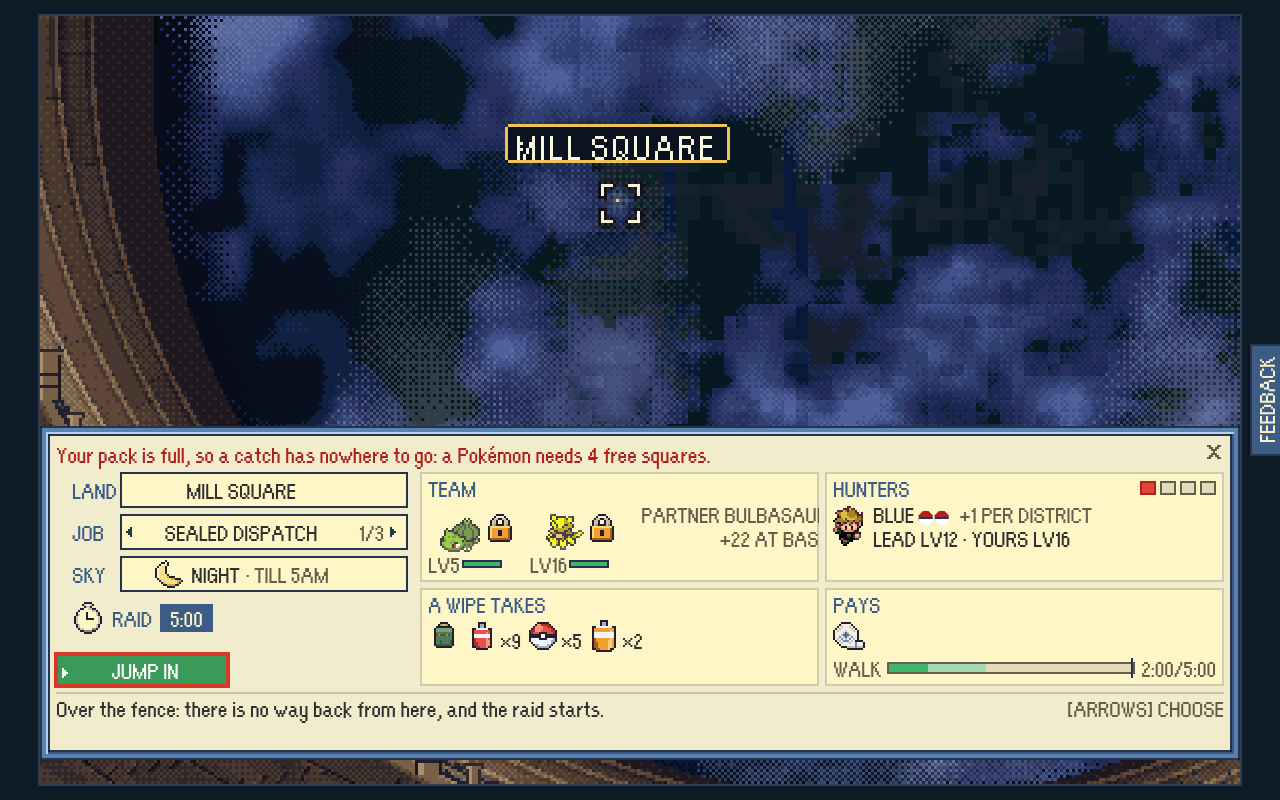
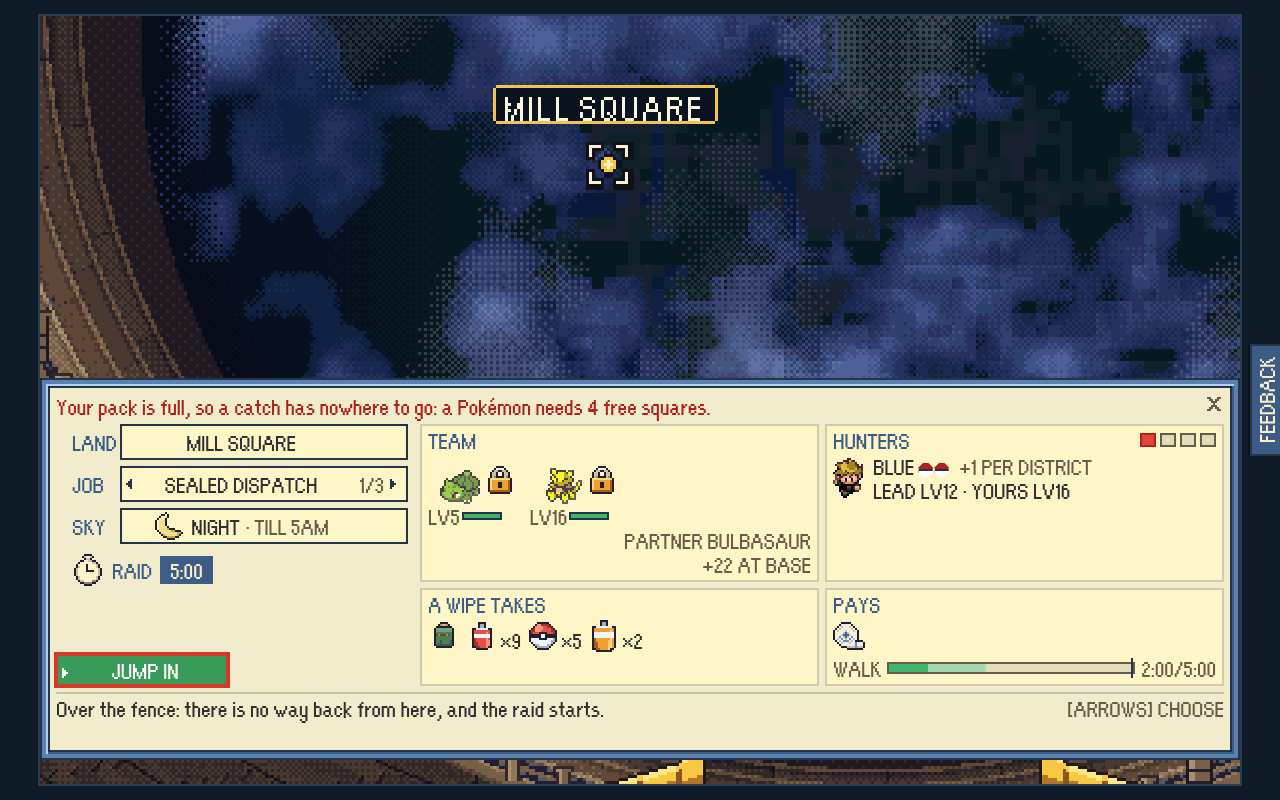
The friend room loses its Back to the lab, a lost highlight on a hurt team's card goes to its first row, and the card's TEAM notes no longer clip

diff --git a/src/game/scenes/HubScene.ts b/src/game/scenes/HubScene.ts
@@ -285,7 +285,7 @@ export interface HubSceneData {
   readonly straightOver?: boolean;
   /**
    * The rim's card opened by a player just home from a raid, who has not taken
-   * a step: the cursor starts on NOT YET, so SPACE pressed through the result
+   * a step: the cursor starts on the card's first row, so SPACE pressed through the result
    * screen does not carry on over the fence (`BaseScene.homeOnTheRail`).
    */
   readonly justHome?: boolean;
@@ -3083,6 +3083,14 @@ export class HubScene extends Phaser.Scene {
     const active = document.activeElement as HTMLElement | null;
     const row = active?.dataset.rimRow as RimRowId | undefined;
     const button = active ? buttons.indexOf(active) : -1;
+    // A card that opened off JUMP IN (a hurt team, a player just home) puts a
+    // lost highlight back on its first row, never on the jump: a click on a
+    // tile or the X leaves nothing on the card focused, and the next arrow then
+    // SPACE must not spend the raid.
+    if (!row && button < 0 && rimOpensAwayFromJumpIn(this.flow, this.justHome) && rows.length > 0) {
+      this.overlay.root.querySelector<HTMLElement>(`[data-rim-row="${rows[0].id}"]`)?.focus();
+      return;
+    }
     const start = Math.max(0, buttons.findIndex((each) => each.hasAttribute('data-cursor-start')));
     const move = rimKeyMove(key, rows, row ? { row } : button >= 0 ? { button } : null, buttons.length, start);
     if (move.kind === 'step') {

diff --git a/src/game/scenes/HubScene.test.ts b/src/game/scenes/HubScene.test.ts
@@ -2162,7 +2162,7 @@ describe('what the base screen leads with', () => {
       root.querySelectorAll = saved.all;
       root.querySelector = saved.one;
     }
-    return (document.activeElement as { name: string }).name;
+    return (document.activeElement as { name: string } | undefined)?.name ?? 'nothing';
   }
 
   // The second characters hunt of 11 Nov 2026, finding 1: a hurt team's card
@@ -2180,6 +2180,20 @@ describe('what the base screen leads with', () => {
     expect(last).not.toBe('start');
     expect(pressOnTheRim(hub, last, 'ArrowDown')).toBe('start');
     expect(hub.flow.insertionId).toBe(landing);
+  });
+
+  // The critic's pass on the X, 25 Nov 2026: with NOT YET gone, a click on a
+  // tile left nothing focused and the next arrow fell back on JUMP IN.
+  it('puts a lost highlight on a hurt team’s card back on its first row, never on JUMP IN', () => {
+    const { hub } = createHub();
+    hub.flow.togglePokemon('charmander-1');
+    const { pokemon } = hub.flow.party[0];
+    pokemon.takeDamage(pokemon.currentHp - 1);
+    hub.setView('rim');
+    readyToDeploy(hub);
+    for (const key of ['ArrowUp', 'ArrowDown', 'ArrowLeft', 'ArrowRight']) {
+      expect(pressOnTheRim(hub, 'nothing', key)).toBe('landing');
+    }
   });
 
   it('has nothing beside JUMP IN for Left and Right to reach: the way back is the X', () => {

diff --git a/src/game/hub/railWarning.ts b/src/game/hub/railWarning.ts
@@ -7,7 +7,7 @@
  * nothing in FireRed stops somebody walking out of a town hurt, but FireRed's
  * player can see the party's HP and a card about to spend the raid has to say
  * it. So the rim's card names who is hurt and, when the whole team together
- * is close to done, opens with the cursor on NOT YET.
+ * is close to done, opens with the cursor on its first row, off JUMP IN.
  *
  * Phaser-free, so all of it can be asked of a number.
  */
@@ -16,7 +16,7 @@ import { isPlaytestRun } from '../dev/playtestMode';
 
 /** Below this share of their HP somebody is named on the card. */
 const NAMED_BELOW_SHARE = 1 / 2;
-/** Below this share of the whole team's HP, the card opens on NOT YET. */
+/** Below this share of the whole team's HP, the card opens off JUMP IN. */
 const STOPS_BELOW_SHARE = 1 / 3;
 /** How many are spelt out before the rest are counted: the card has only so many lines. */
 const MOST_NAMED = 2;
@@ -31,7 +31,7 @@ export interface RailMember {
 export interface RailWarning {
   /** The words on the card. */
   readonly line: string;
-  /** Whether the cursor should open on NOT YET rather than on JUMP IN. */
+  /** Whether the cursor should open on the card's first row rather than on JUMP IN. */
   readonly stops: boolean;
 }
 

diff --git a/src/game/dev/testDescribe.ts b/src/game/dev/testDescribe.ts
@@ -205,6 +205,7 @@ export interface ElementLike {
   querySelectorAll(selector: string): ArrayLike<ElementLike>;
   getClientRects(): ArrayLike<unknown>;
   click?(): void;
+  dispatchEvent?(event: Event): boolean;
   focus?(): void;
   scrollIntoView?(options: { readonly block: 'nearest' }): void;
 }
@@ -319,7 +320,13 @@ export function pressMenuControl(document: DocumentLike, label: string): string 
   // veteran run read its details beside a list that never showed it (20 Nov 2026).
   match.element.scrollIntoView?.({ block: 'nearest' });
   match.element.focus?.();
-  match.element.click?.();
+  // A pointer's click, with a click count, as a player's is: a key's press has
+  // none, and the jump-in card's rows bump on a key (`HubScene`'s rim rows).
+  if (typeof MouseEvent === 'function' && match.element.dispatchEvent) {
+    match.element.dispatchEvent(new MouseEvent('click', { bubbles: true, cancelable: true, detail: 1 }));
+  } else {
+    match.element.click?.();
+  }
   return match.label;
 }
 

diff --git a/src/game/scenes/keeperTalk.test.ts b/src/game/scenes/keeperTalk.test.ts
@@ -608,7 +608,7 @@ describe('at the rail', () => {
 describe('the rim card opened just home from a raid', () => {
   // SPACE mashed through the result screen landed on the rail, opened the rim
   // card and jumped (raids bug hunt, fault 4). Every card opened before a step
-  // is taken is asked to start on NOT YET, so mashing only opens and closes it.
+  // is taken is asked to start off JUMP IN, so mashing only bumps on its first row.
   const hall = (homeOnTheRail: boolean) => {
     const launched: Record<string, unknown>[] = [];
     const scene = BaseScene.prototype as unknown as Record<string, unknown>;
@@ -639,7 +639,7 @@ describe('the rim card opened just home from a raid', () => {
     return { open, launched, step };
   };
 
-  it('asks for the cursor on NOT YET every time until a step is taken', () => {
+  it('asks for the cursor off JUMP IN every time until a step is taken', () => {
     const { open, launched, step } = hall(true);
     open('rim');
     open('rim');

diff --git a/src/game/hub/friendRoomView.ts b/src/game/hub/friendRoomView.ts
@@ -93,6 +93,6 @@ function heldView(screen: FriendRoomScreen, room: NonNullable<FriendRoomScreen['
   )}${pixelCommitBar({
     title: `Raid ${room.mapName} together`,
     lines: ['<small class="px-wrap">Get ready at the RAID ARENA, west of the yard, as for any raid. You jump in when you are ready, not together.</small>'],
-    actions: `<button class="px-window px-button" data-room-leave data-help="Leave the room. Anybody else in it raids on without you.">Leave the room</button><button class="px-window px-button is-primary" data-back data-cursor-start data-help="Back to the lab. The room stays yours while you walk to the Raid Arena.">Back to the lab</button>`,
+    actions: `<button class="px-window px-button" data-room-leave data-cursor-start data-help="Leave the room. Anybody else in it raids on without you.">Leave the room</button>`,
   })}</main>`;
 }

diff --git a/src/game/hub/railWarning.test.ts b/src/game/hub/railWarning.test.ts
@@ -63,11 +63,11 @@ describe('rimOpensAwayFromJumpIn', () => {
     expect(rimOpensAwayFromJumpIn(bench(47), false)).toBe(false);
   });
 
-  it('opens on NOT YET for a team close to done, medicine packed or not', () => {
+  it('opens off JUMP IN for a team close to done, medicine packed or not', () => {
     expect(rimOpensAwayFromJumpIn(bench(5), false)).toBe(true);
   });
 
-  it('opens on NOT YET for a player just home, and for a bench nobody can take', () => {
+  it('opens off JUMP IN for a player just home, and for a bench nobody can take', () => {
     expect(rimOpensAwayFromJumpIn(bench(47), true)).toBe(true);
     expect(rimOpensAwayFromJumpIn(bench(47, 'Nobody is on the bench.'), false)).toBe(true);
   });

diff --git a/src/game/ui/menuFocus.ts b/src/game/ui/menuFocus.ts
@@ -4,8 +4,8 @@
  * Every menu rebuilds its markup on each change, which drops focus, so each
  * render has to say where focus goes next. A comma-separated selector cannot
  * say it: `querySelector('[data-item-index], [data-close]')` returns whichever
- * match comes first *in the document*, and the back button is first in every
- * menu header. That is how every re-render of the raid bag put the keyboard on
+ * match comes first *in the document*, and the X in every menu's title bar
+ * comes before its body. That is how every re-render of the raid bag put the keyboard on
  * "Back to game", and the Enter meant for a recipient closed the bag and
  * restarted the raid clock with nothing used.
  *

diff --git a/src/game/hub/rimCard.test.ts b/src/game/hub/rimCard.test.ts
@@ -23,7 +23,7 @@ describe('the jump-in card keys: one key, one job (the captain, 25 Nov 2026)', (
     expect(rimKeyMove('ArrowRight', ROWS, { row: 'sky' }, 2, 1)).toEqual({ kind: 'bump' });
   });
 
-  it('steps between NOT YET and JUMP IN on the buttons row, and never touches the landing there', () => {
+  it('steps between the buttons on the buttons row, and never touches the landing there', () => {
     expect(rimKeyMove('ArrowLeft', ROWS, { button: 1 }, 2, 1)).toEqual({ kind: 'button', index: 0 });
     expect(rimKeyMove('ArrowRight', ROWS, { button: 0 }, 2, 1)).toEqual({ kind: 'button', index: 1 });
     expect(rimKeyMove('ArrowLeft', ROWS, { button: 0 }, 2, 1)).toEqual({ kind: 'bump' });

diff --git a/src/style.css b/src/style.css
@@ -5569,16 +5569,21 @@ body.touch-play .feedback-tab {
   gap: var(--u);
   min-width: 0;
 }
+/* The notes stand right of the icons while they fit and drop under them when
+   they do not: squeezed beside two icons they were cut to PARTNER BULBASAU and
+   +22 AT BAS (the critic's pass, 25 Nov 2026). */
 :where(.pixel-ui) .rim-team {
   display: flex;
+  flex-wrap: wrap;
   justify-content: space-between;
-  gap: calc(var(--u) * 4);
+  column-gap: calc(var(--u) * 4);
 }
 :where(.pixel-ui) .rim-team-notes {
   display: grid;
   align-content: start;
   justify-items: end;
-  min-width: 0;
+  margin-left: auto;
+  white-space: nowrap;
 }
 :where(.pixel-ui) .rim-mons {
   display: flex;

diff --git a/src/game/scenes/MapMakerScene.ts b/src/game/scenes/MapMakerScene.ts
@@ -3564,7 +3564,7 @@ export class MapMakerScene extends Phaser.Scene {
     }
     if (key === 'escape') {
       // Escape is "not that": it drops a stroke half drawn, then the choice,
-      // then a panel. It never leaves - that is the TITLE button - because
+      // then a panel. It never leaves - that is the X on the title bar - because
       // the reflex key for cancelling a box once cost the maker the screen.
       event.preventDefault();
       if (this.stroke) {

diff --git a/src/game/scenes/arenaWalkPlan.test.ts b/src/game/scenes/arenaWalkPlan.test.ts
@@ -169,7 +169,7 @@ describe('a way in chosen before the rim has been explained', () => {
     expect(flow.insertionId).toBe(under.id);
   });
 
-  it('is still chosen after NOT YET, until the player takes a step', () => {
+  it('is still chosen after the card is put away, until the player takes a step', () => {
     const { scene, flow, frame } = atTheRail(false);
     scene.arenaPanel = 'rim';
     frame();
